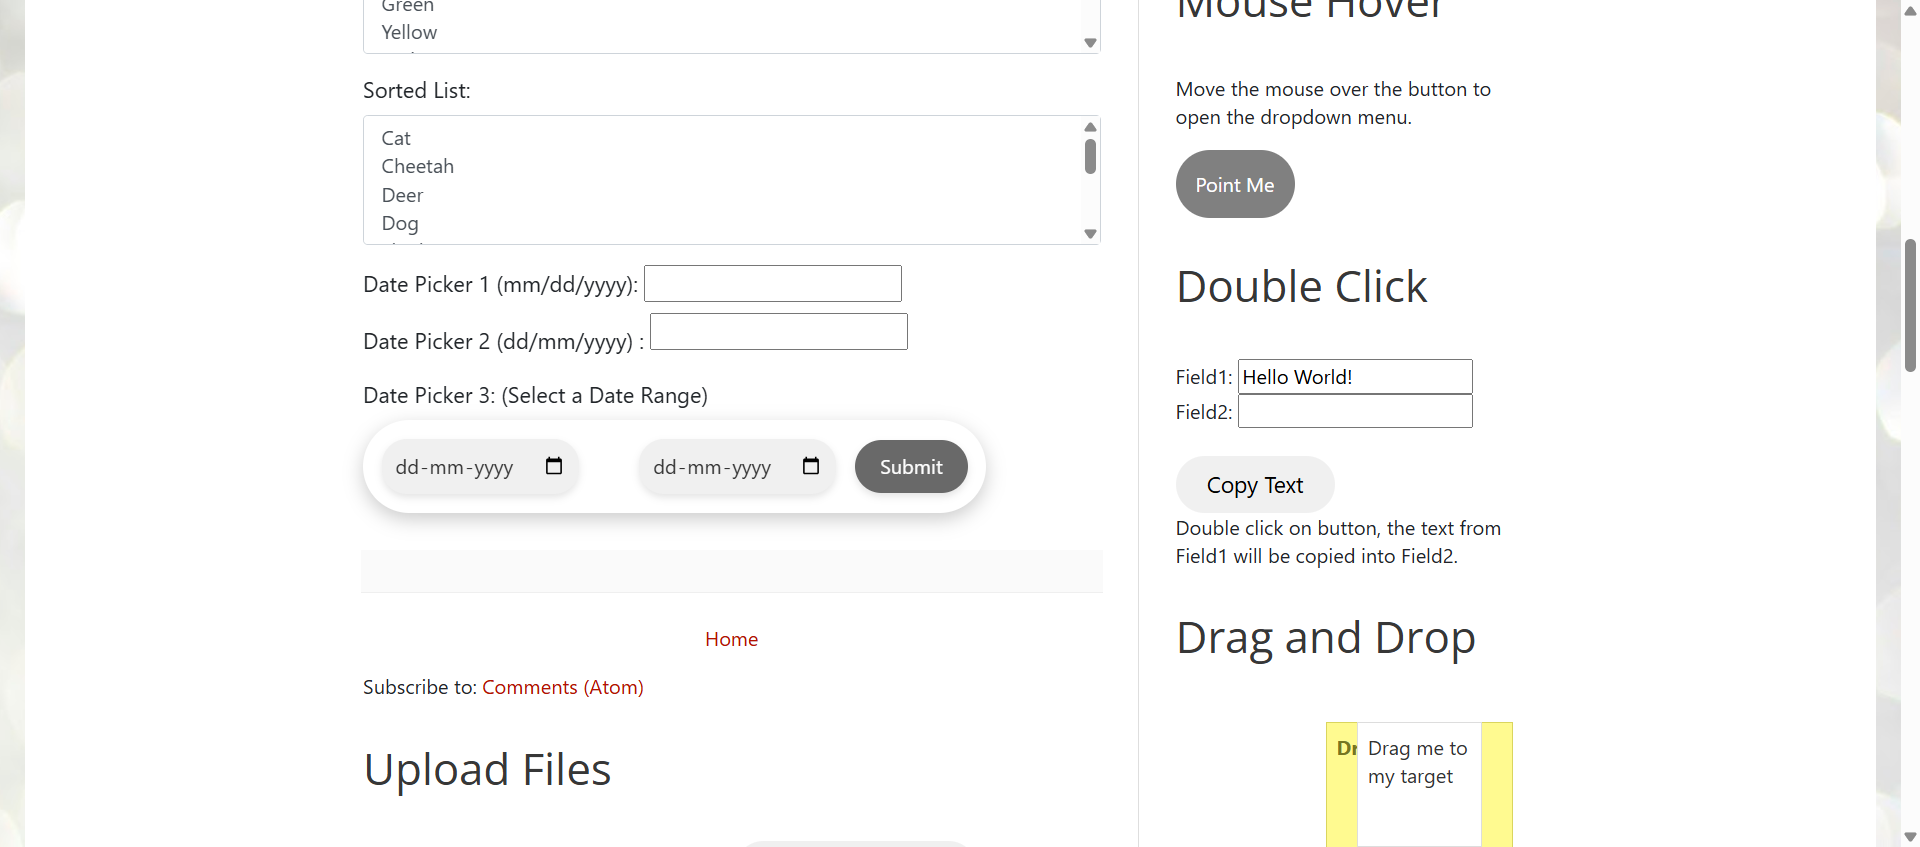
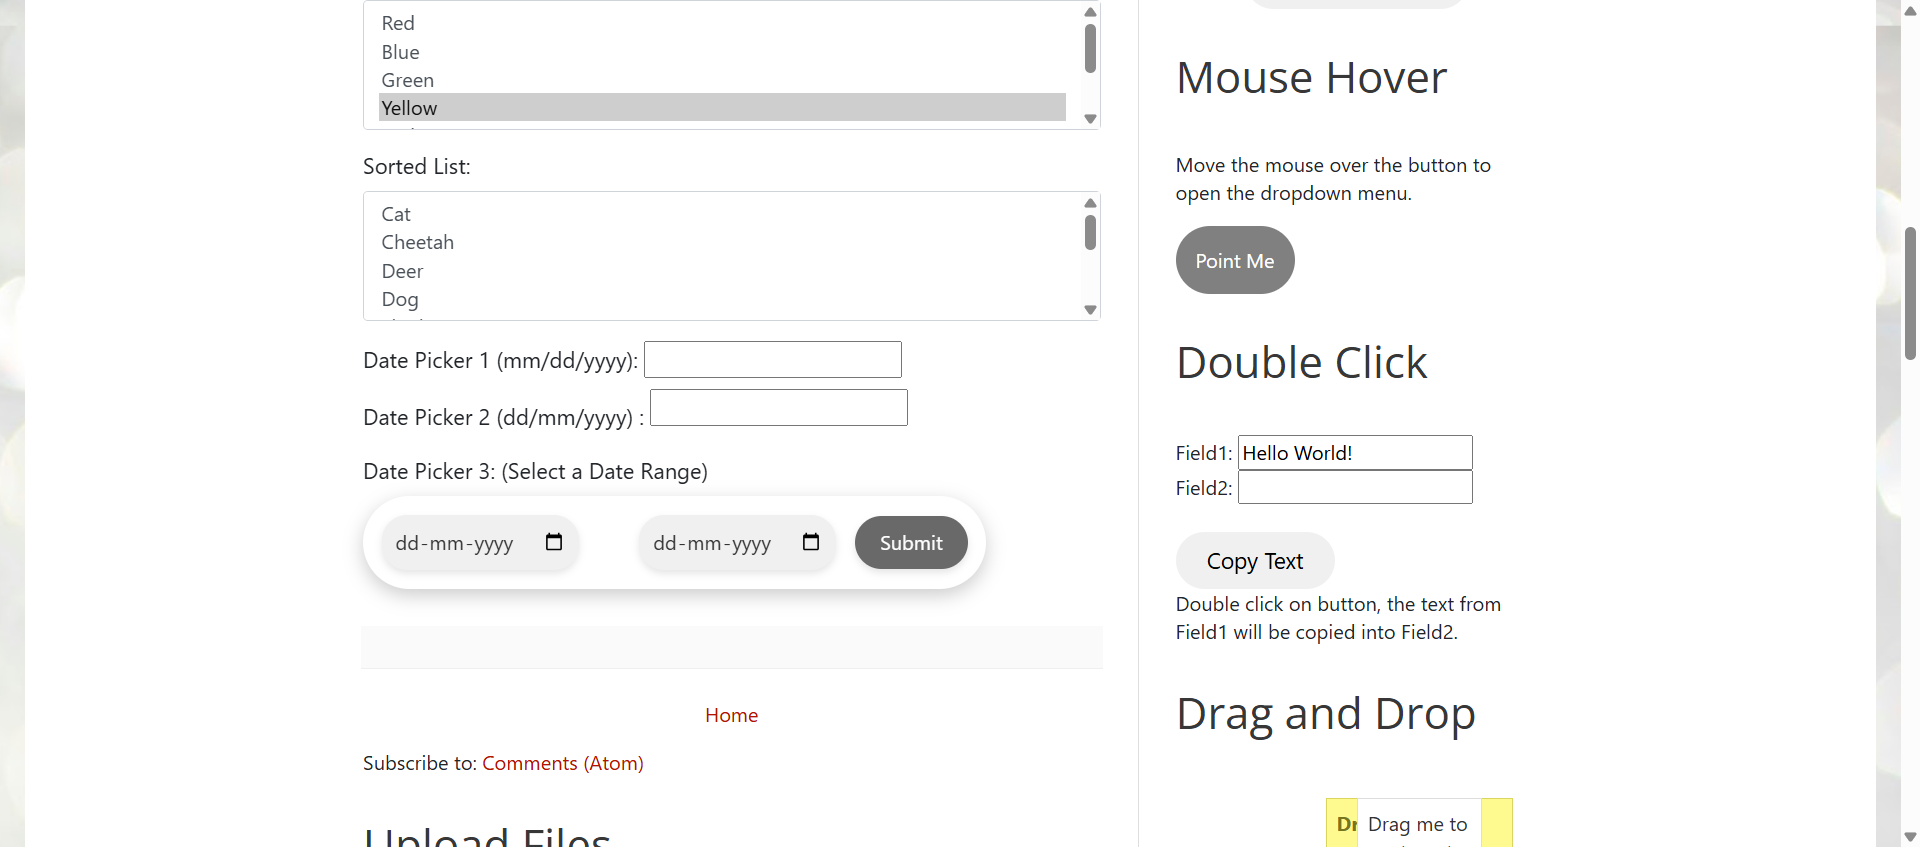
added new concept

diff --git a/src/main/java/Tests/Selenium.java b/src/main/java/Tests/Selenium.java
@@ -6,6 +6,7 @@ import java.util.concurrent.TimeUnit;
 
 import org.apache.commons.io.FileUtils;
 import org.openqa.selenium.By;
+import org.openqa.selenium.JavascriptExecutor;
 import org.openqa.selenium.OutputType;
 import org.openqa.selenium.TakesScreenshot;
 import org.openqa.selenium.WebDriver;
@@ -23,32 +24,29 @@ public class Selenium {
 		driver.get("https://testautomationpractice.blogspot.com/");
 		driver.findElement(By.xpath("//input[@id=\"name\"]")).sendKeys("Masum Raza");
 		driver.findElement(By.xpath("//input[@id=\"email\"]")).sendKeys("Masum@gmail.com");
-
+		driver.findElement(By.id("phone")).sendKeys("9883732751");
+		driver.findElement(By.id("textarea")).sendKeys("Basantpur Bangle Amnour Saran Bihar");
 		driver.findElement(By.xpath("//input[@id=\"male\"]")).click();
+		driver.findElement(By.id("sunday")).click();
+		Thread.sleep(3000);
 		WebElement country = driver.findElement(By.xpath("//select[@id=\"country\"]"));
 		Select dropdown = new Select(country);
 		dropdown.selectByVisibleText("China");
-
+		Thread.sleep(3000);
+		WebElement colors = driver.findElement(By.id("colors"));
+		((JavascriptExecutor) driver).executeScript("arguments[0].scrollIntoView(true);", colors);
+		// Select Yellow using JavaScript
+		JavascriptExecutor js = (JavascriptExecutor) driver;
+		js.executeScript("for(let option of arguments[0].options){ "
+				+ "if(option.text === 'Yellow'){ option.selected = true; } }", colors);
+		
 		WebElement src = driver.findElement(By.xpath("//div[@id=\"draggable\"]"));
 		WebElement trg = driver.findElement(By.xpath("//div[@id=\"droppable\"]"));
-
 		Actions action = new Actions(driver);
 		action.dragAndDrop(src, trg).build().perform();
-
 		File screen = ((TakesScreenshot) driver).getScreenshotAs(OutputType.FILE);
 		FileUtils.copyFile(screen, new File("./IMAGEFOlder/test.png"));
-
-		/*
-		 * //Window Handles concept
-		 * 
-		 * String pw=driver.getWindowHandle(); Set<String>aw=driver.getWindowHandles();
-		 * Iterator< String>li=aw.iterator(); while(li.hasNext()) { String cw=li.next();
-		 * if(!pw.equals(cw)) { driver.switchTo().window(cw);
-		 * System.out.println(driver.getTitle()); driver.close(); } }aa
-		 * driver.switchTo().window(pw);
-		 * 
-		 * driver.quit();
-		 */
+		Thread.sleep(3000);
+		driver.quit();
 	}
-
 }
